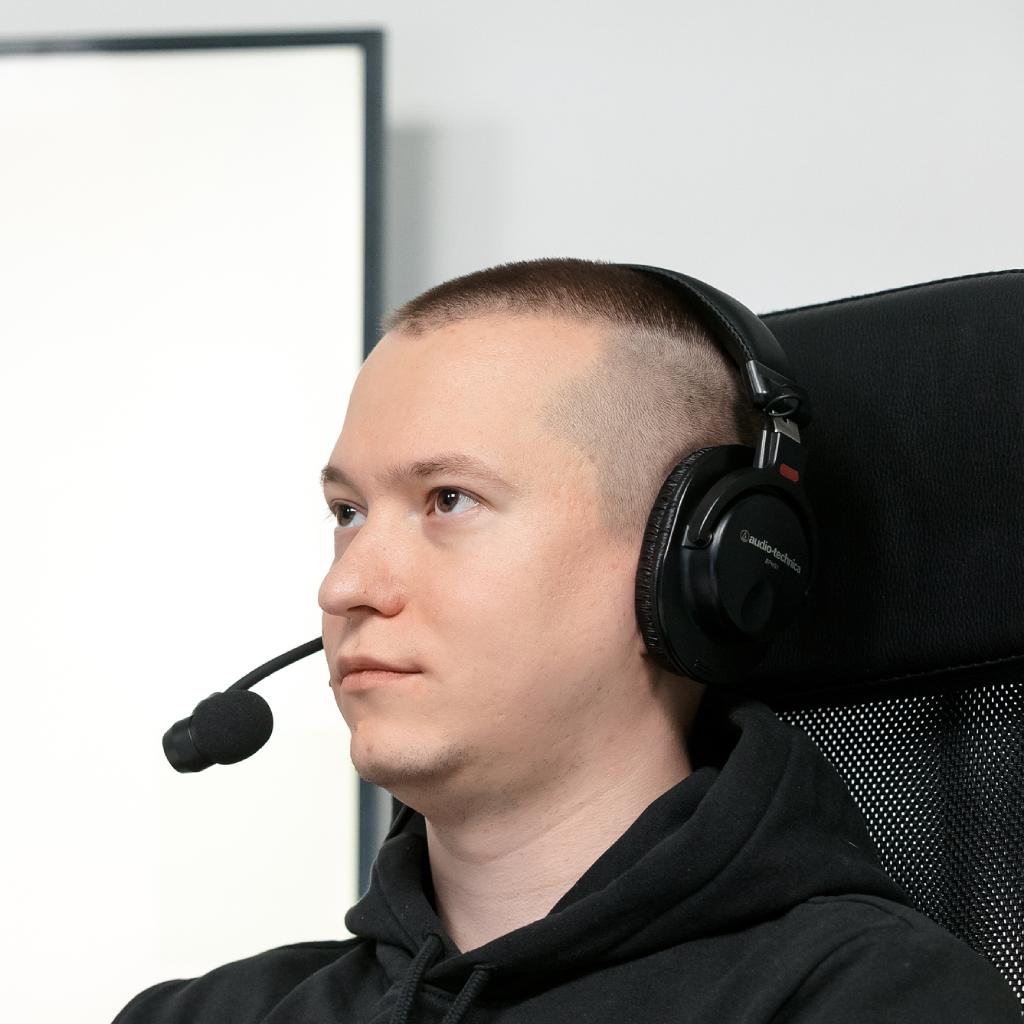
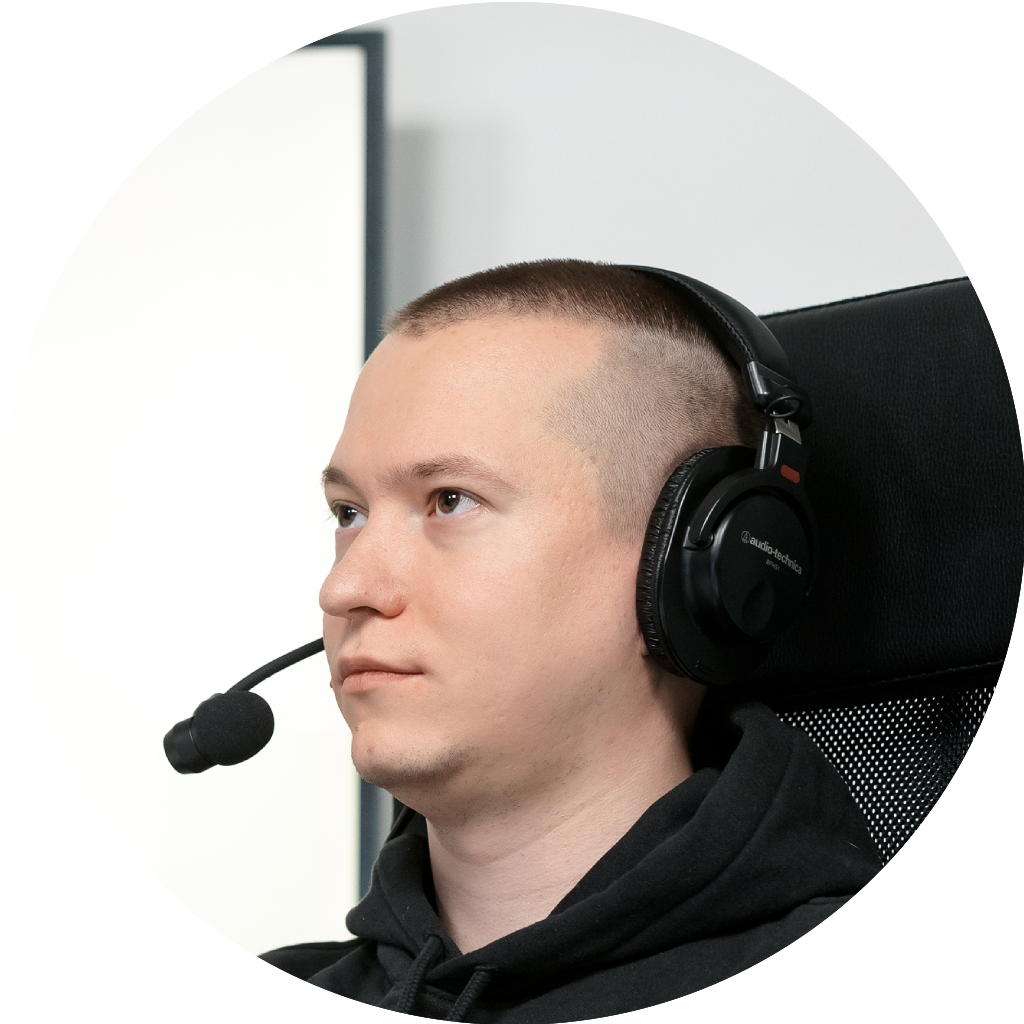
Fix: round ava by resource.

diff --git a/README.md b/README.md
@@ -1,5 +1,5 @@
 <div style="text-align: left;">
-    <img align="right" height="150" src="./img/ava.png" alt="avatar" style="border-radius: 50%; padding-left: 12px;"/>
+    <img align="right" height="150" src="./img/ava.png" alt="avatar"/>
     <h1>Hi there 👋</h1>
     <p>My name is Mikhail Zotyev. I am a software engineer with deep expertise in Dart and Flutter as well as a lot of other technologies that I needed for solving problems, with experience in leading teams and departments.</p>
 </div>
